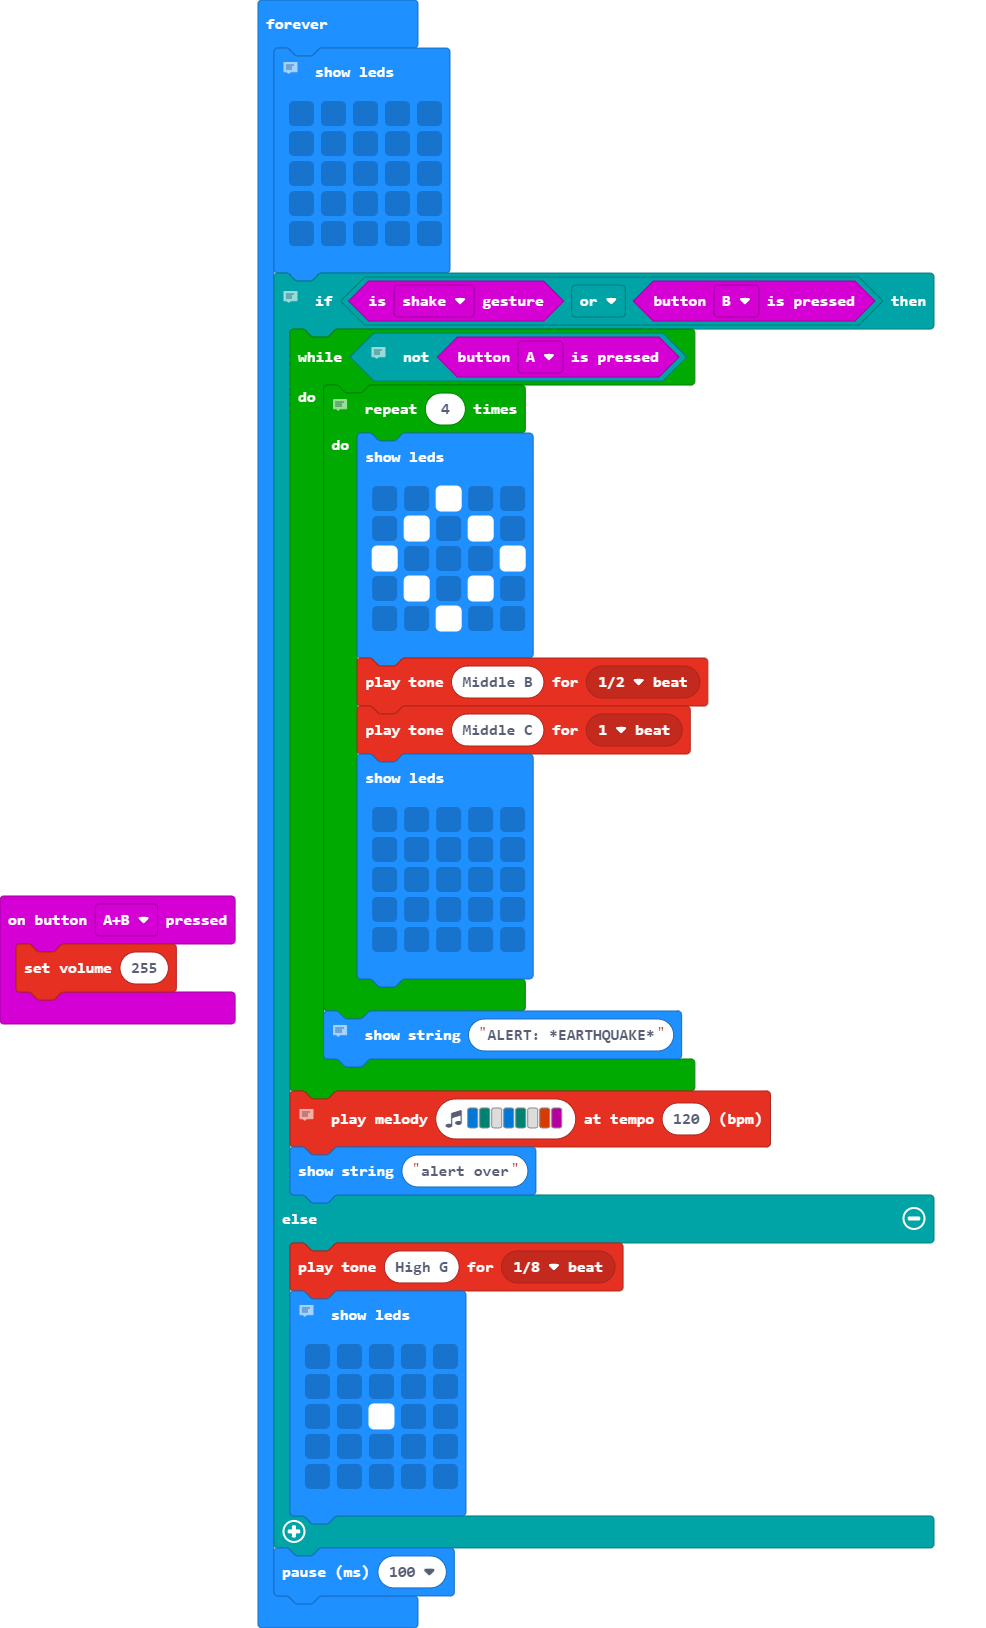
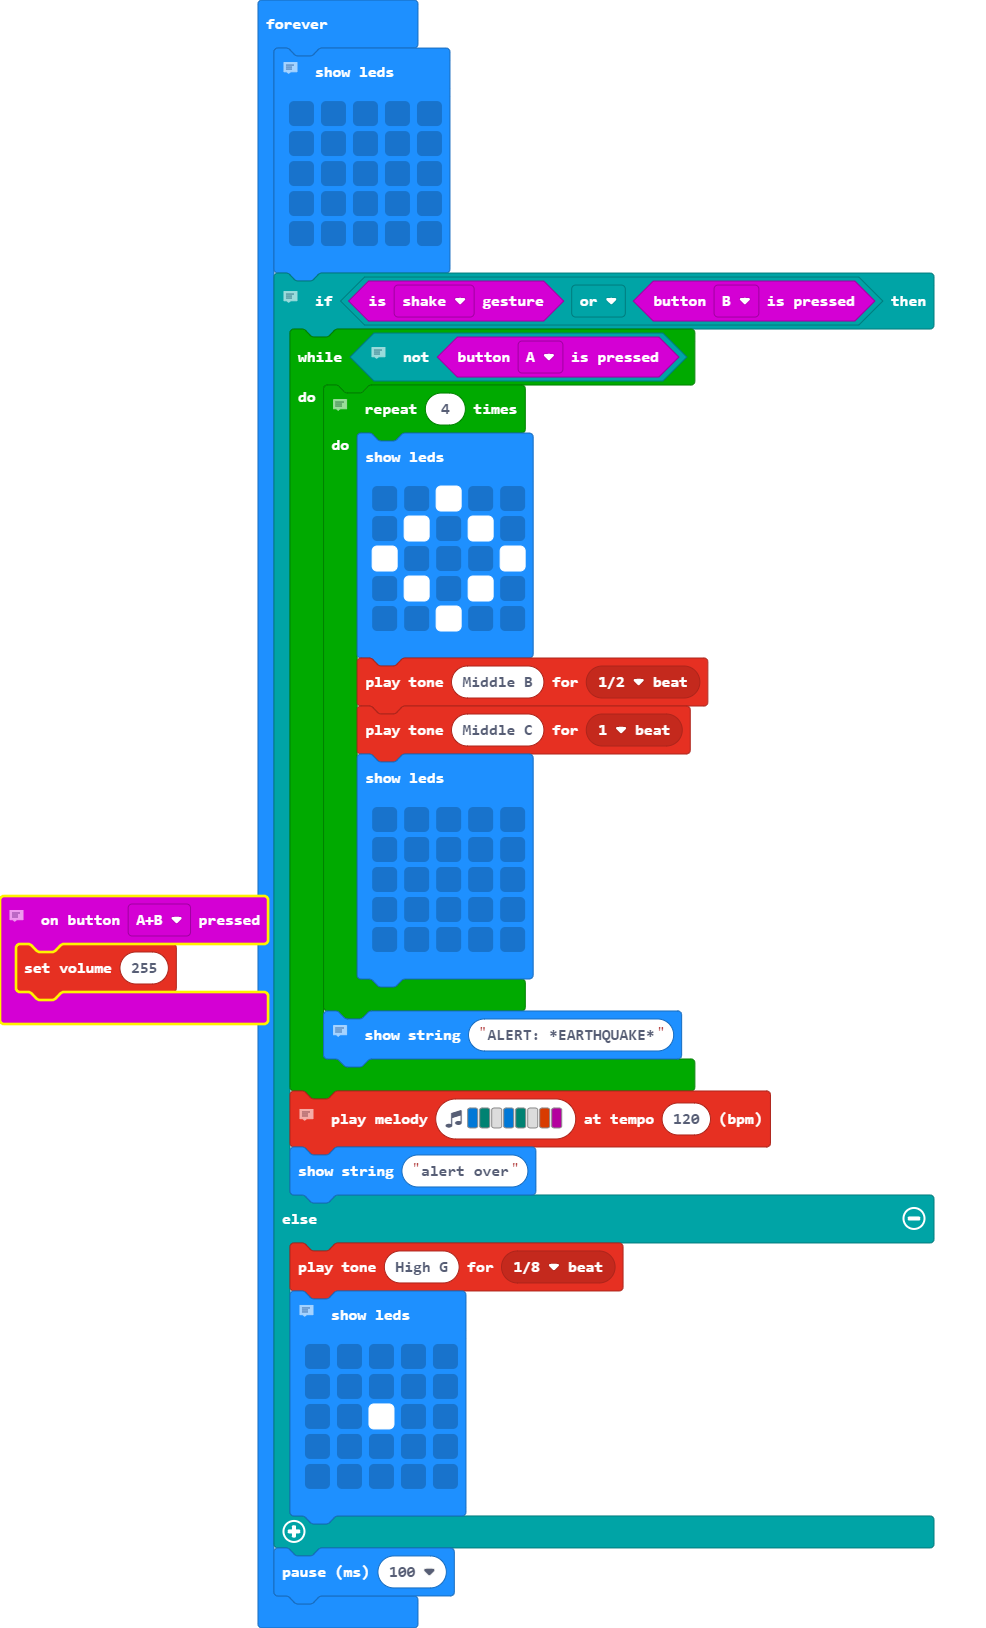
Update main.blocks, main.ts

Changed region(s): [[0.0, 0.5221, 0.2738, 0.645]]

diff --git a/main.ts b/main.ts
@@ -1,3 +1,4 @@
+// sets volume to correct level
 input.onButtonPressed(Button.AB, function () {
     music.setVolume(255)
 })
